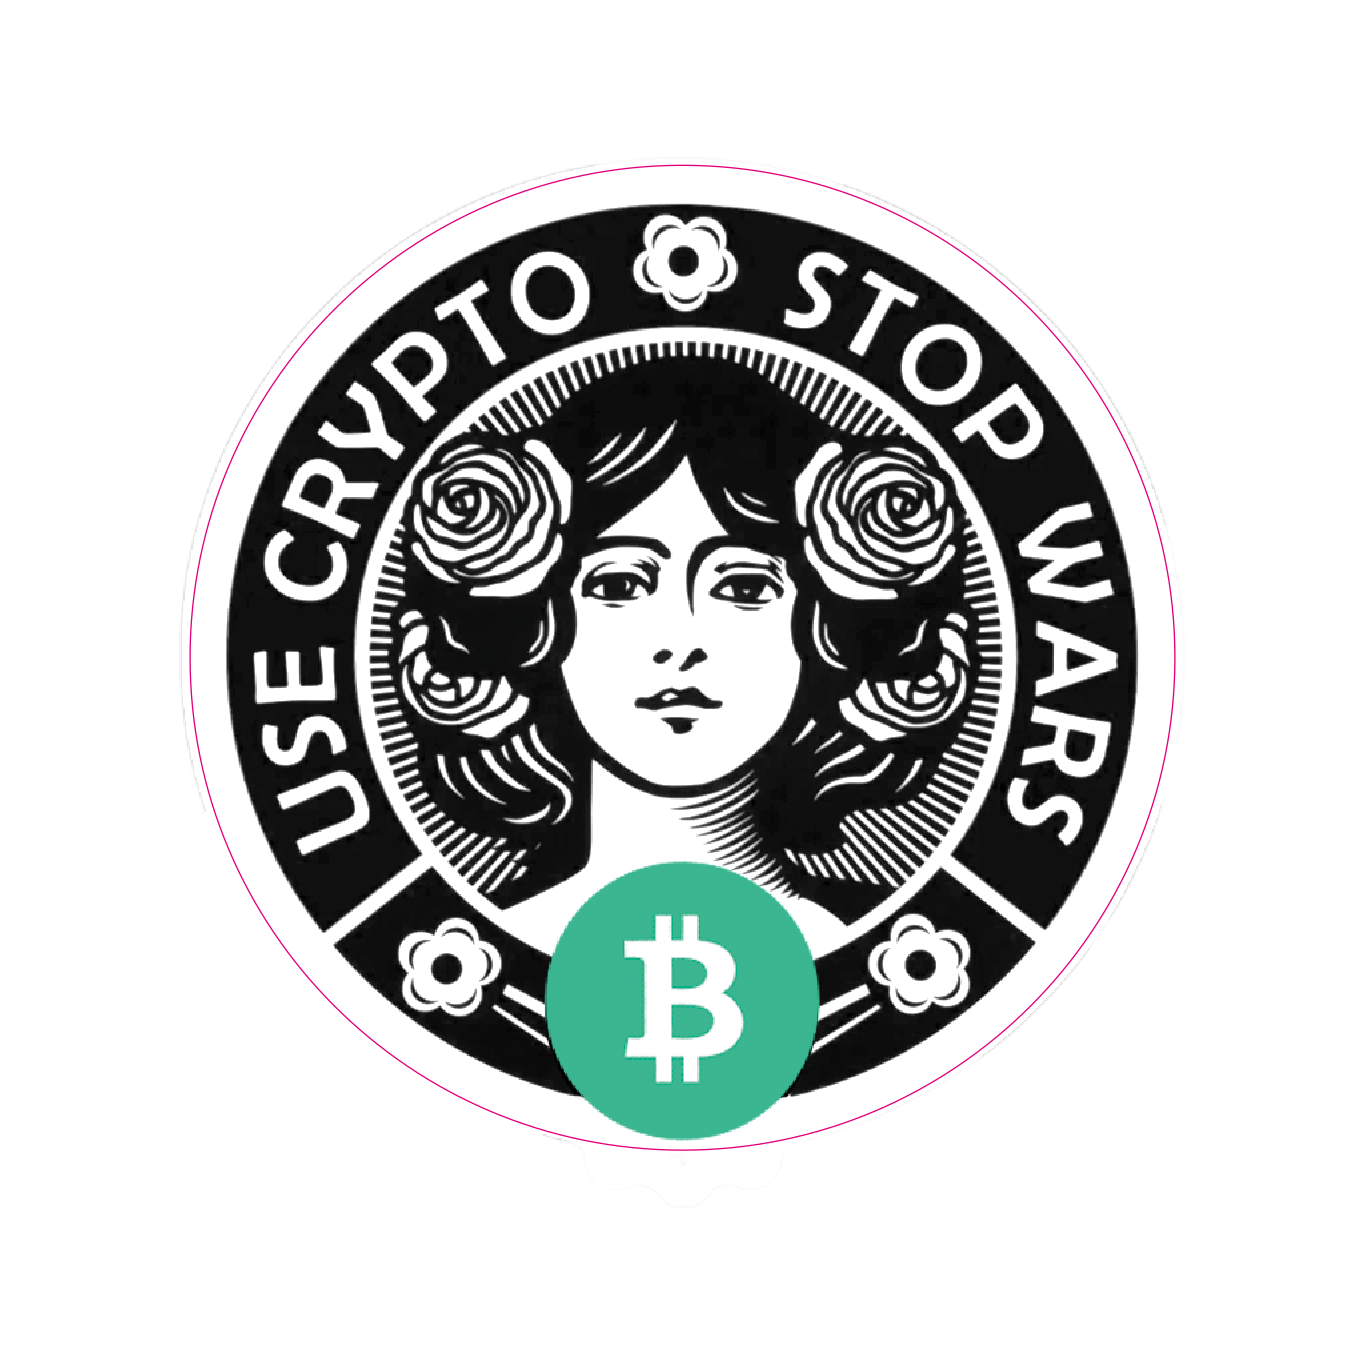
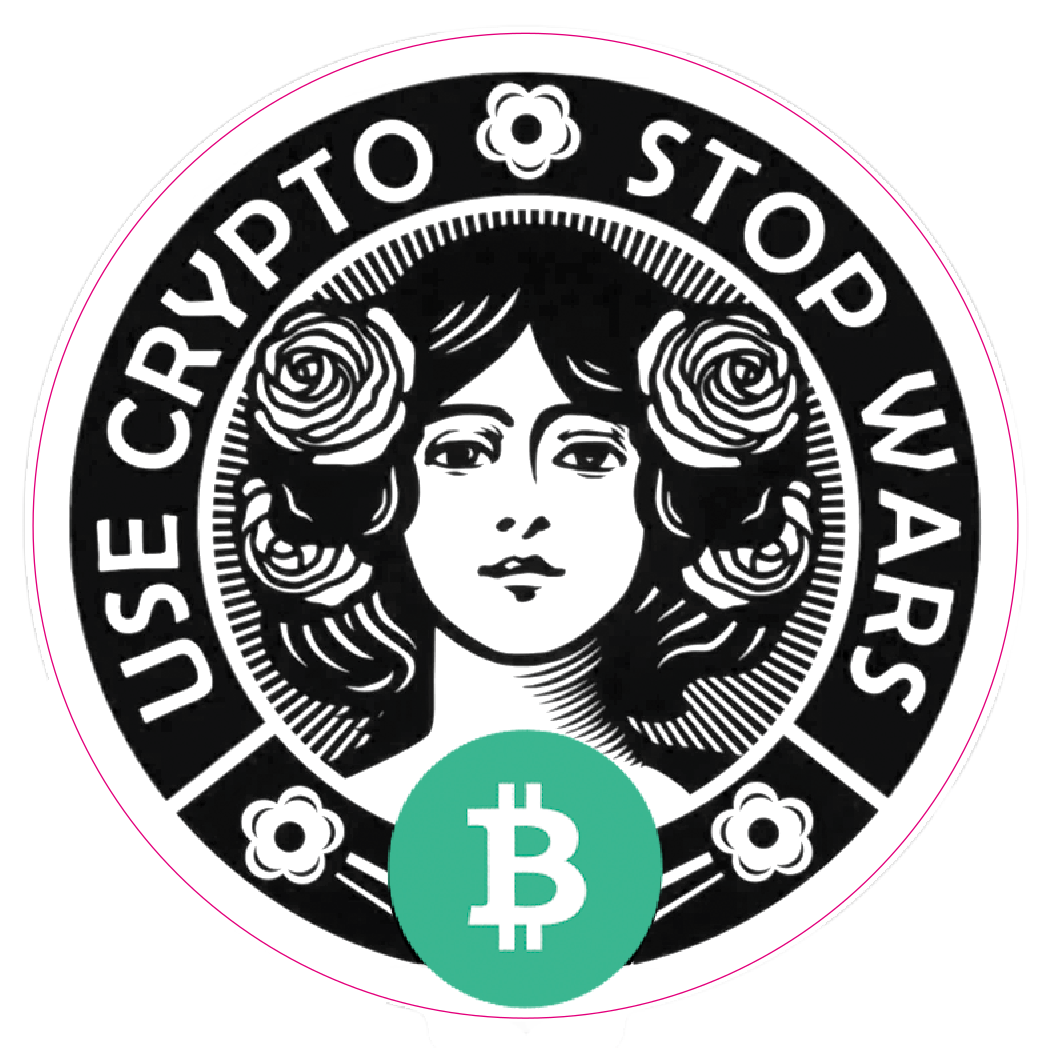
better crop

diff --git a/index.html b/index.html
@@ -42,7 +42,7 @@
     <img src="stickers/mission/stop wars.png">
     <img src="stickers/mission/stop wars sw.png">
     <h2>Products</h2>
-    <img src="stickers/products/afog.png">
+    <img src="stickers/products/afog 2_1.png">
     <img src="stickers/products/anyhedge.svg">
     <img src="stickers/products/fundme.png">
     <img src="stickers/products/fusion.jpg">
